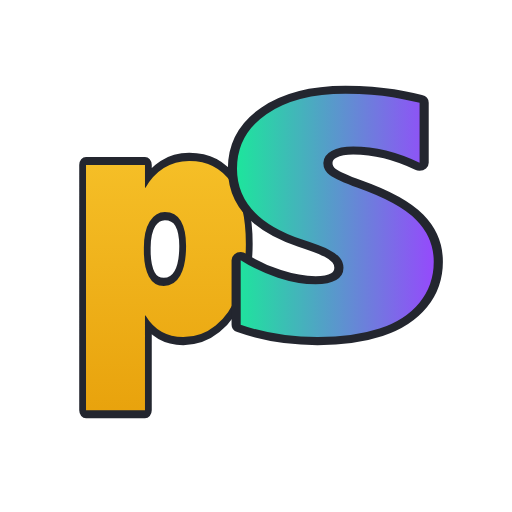
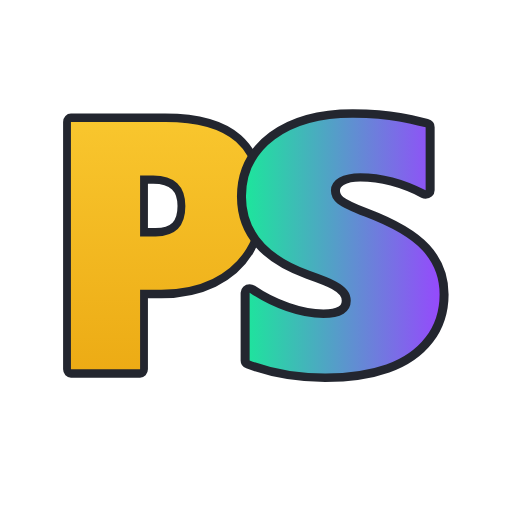
Make the P and S equal-height uppercase letters
The mark now reads PS with both letters at cap height, matching the tight TS-style reference while keeping the yellow P and mint-to-purple S. Updates the favicon pair, the docs header mark, and the standalone brand SVG/PNG. The live check pins both glyphs and equal textLength.

Changed region(s): [[0.125, 0.1562, 0.875, 0.8438]]

diff --git a/Spikes/python/dbg_check_live_site.py b/Spikes/python/dbg_check_live_site.py
@@ -131,11 +131,13 @@ print("site.css:", "all present" if not missing_site else "MISSING")
 for m in missing_site:
     print("  missing:", m)
 
-# Favicon: letterform-only pS — no background plate anywhere in the file.
+# Favicon: letterform-only PS — no background plate anywhere in the file.
 fav = get("/favicon.svg")
 fav_have = [
     'viewBox="0 0 32 32"',  # letterform spec, not the old 64 plate canvas
-    "#ffd43b",  # Python yellow start (p)
+    ">P</text>",  # uppercase P and S, both cap height
+    ">S</text>",
+    "#ffd43b",  # Python yellow start (P)
     "#e8a20c",  # amber end: contrast on a white tab strip
     "#14f195",  # Solana mint (S)
     "#9945ff",  # Solana purple (S)
@@ -143,9 +145,12 @@ fav_have = [
 ]
 fav_missing = [c for c in fav_have if c not in fav]
 plate_gone = "<rect" not in fav
-print("favicon:", "all present" if not fav_missing and plate_gone else "PROBLEM")
+same_width = fav.count('textLength="14.6"') == 2
+print("favicon:", "all present" if not fav_missing and plate_gone and same_width else "PROBLEM")
 if not plate_gone:
     print("  plate <rect> still present")
+if not same_width:
+    print("  P and S letter widths differ")
 for m in fav_missing:
     print("  missing:", m)
 

diff --git a/AGENTS.md b/AGENTS.md
@@ -6,8 +6,8 @@ Read that before compiler, playground, or docs work. Version stays 0.1.0.
 Use `.venv\Scripts\python.exe`. PowerShell: `;` not `&&`. Do not reformat
 `src/pythsol/compiler/emit.py`. Theme is light (Python blue / yellow, Solana
 mint / purple accents). TypeSol is inspiration; do not copy their CU table
-or token. The favicon is a letterform-only `p`+`S` (no background plate);
-two identical copies live in `src/pythsol/playground/favicon.svg` and
+or token. The favicon is a letterform-only `P`+`S` (both cap height, no
+background plate); two identical copies live in `src/pythsol/playground/favicon.svg` and
 `web/docs/public/favicon.svg` — after editing either, copy the file to the
 other and run `npm run build` in `web\docs` before staging.
 

diff --git a/docs/HANDOFF.md b/docs/HANDOFF.md
@@ -261,8 +261,8 @@ test or a real host.
   components/SiteTitle.astro`) and the marketing navbar
   (`src/pythsol/playground/site.css`) must visually stay the same mark:
   `Pyth` yellow `--accent`, `Sol` mint→purple gradient, click → `/`. The
-  docs header also carries the p+S letterform mark (same artwork as the
-  favicon); it is inline SVG with gradient ids `pythsol-ps-pg` /
+  docs header also carries the P+S letterform mark (both cap height, same
+  artwork as the favicon); it is inline SVG with gradient ids `pythsol-ps-pg` /
   `pythsol-ps-sg`.
 - `astro.config.mjs` pins `site: "https://www.pythsol.com"`,
   `base: "/docs"`, `trailingSlash: "never"`. Keep those when editing.
